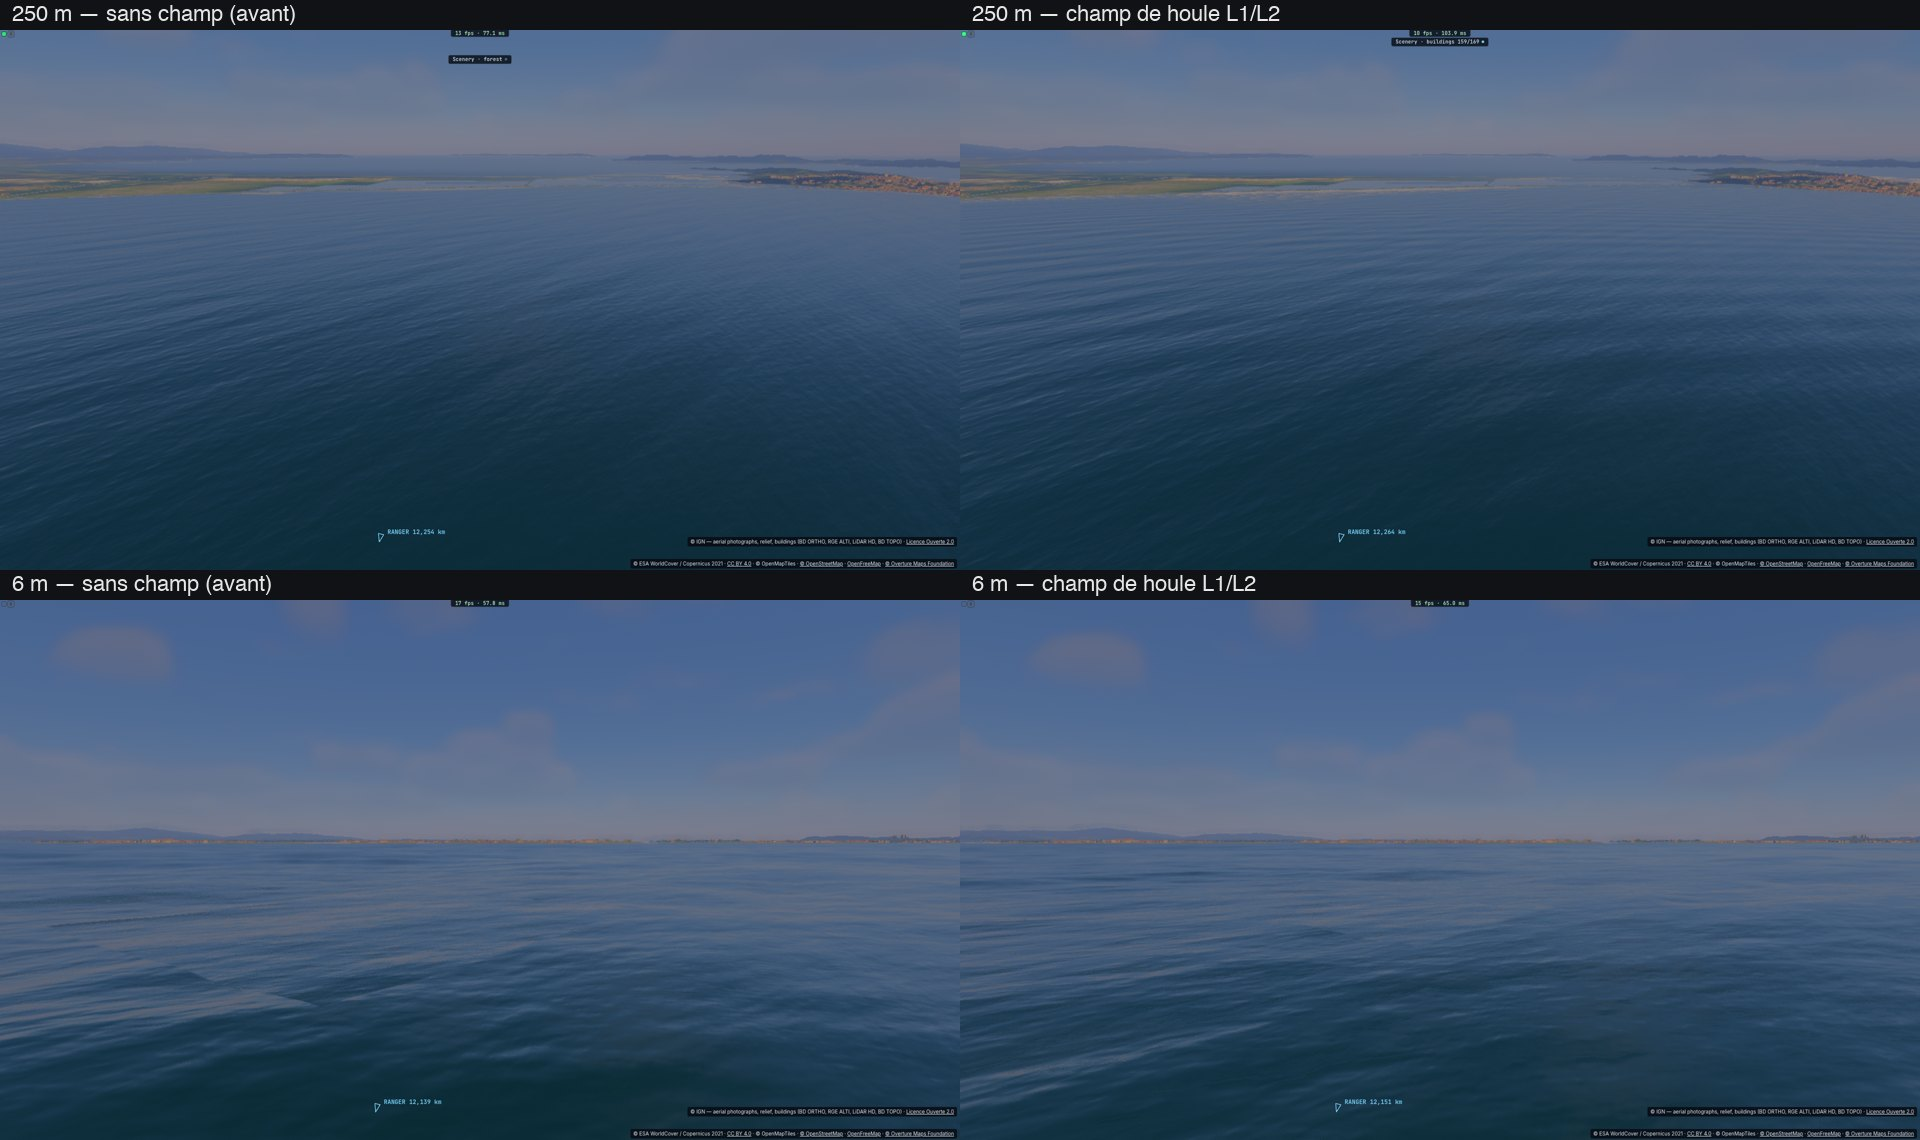
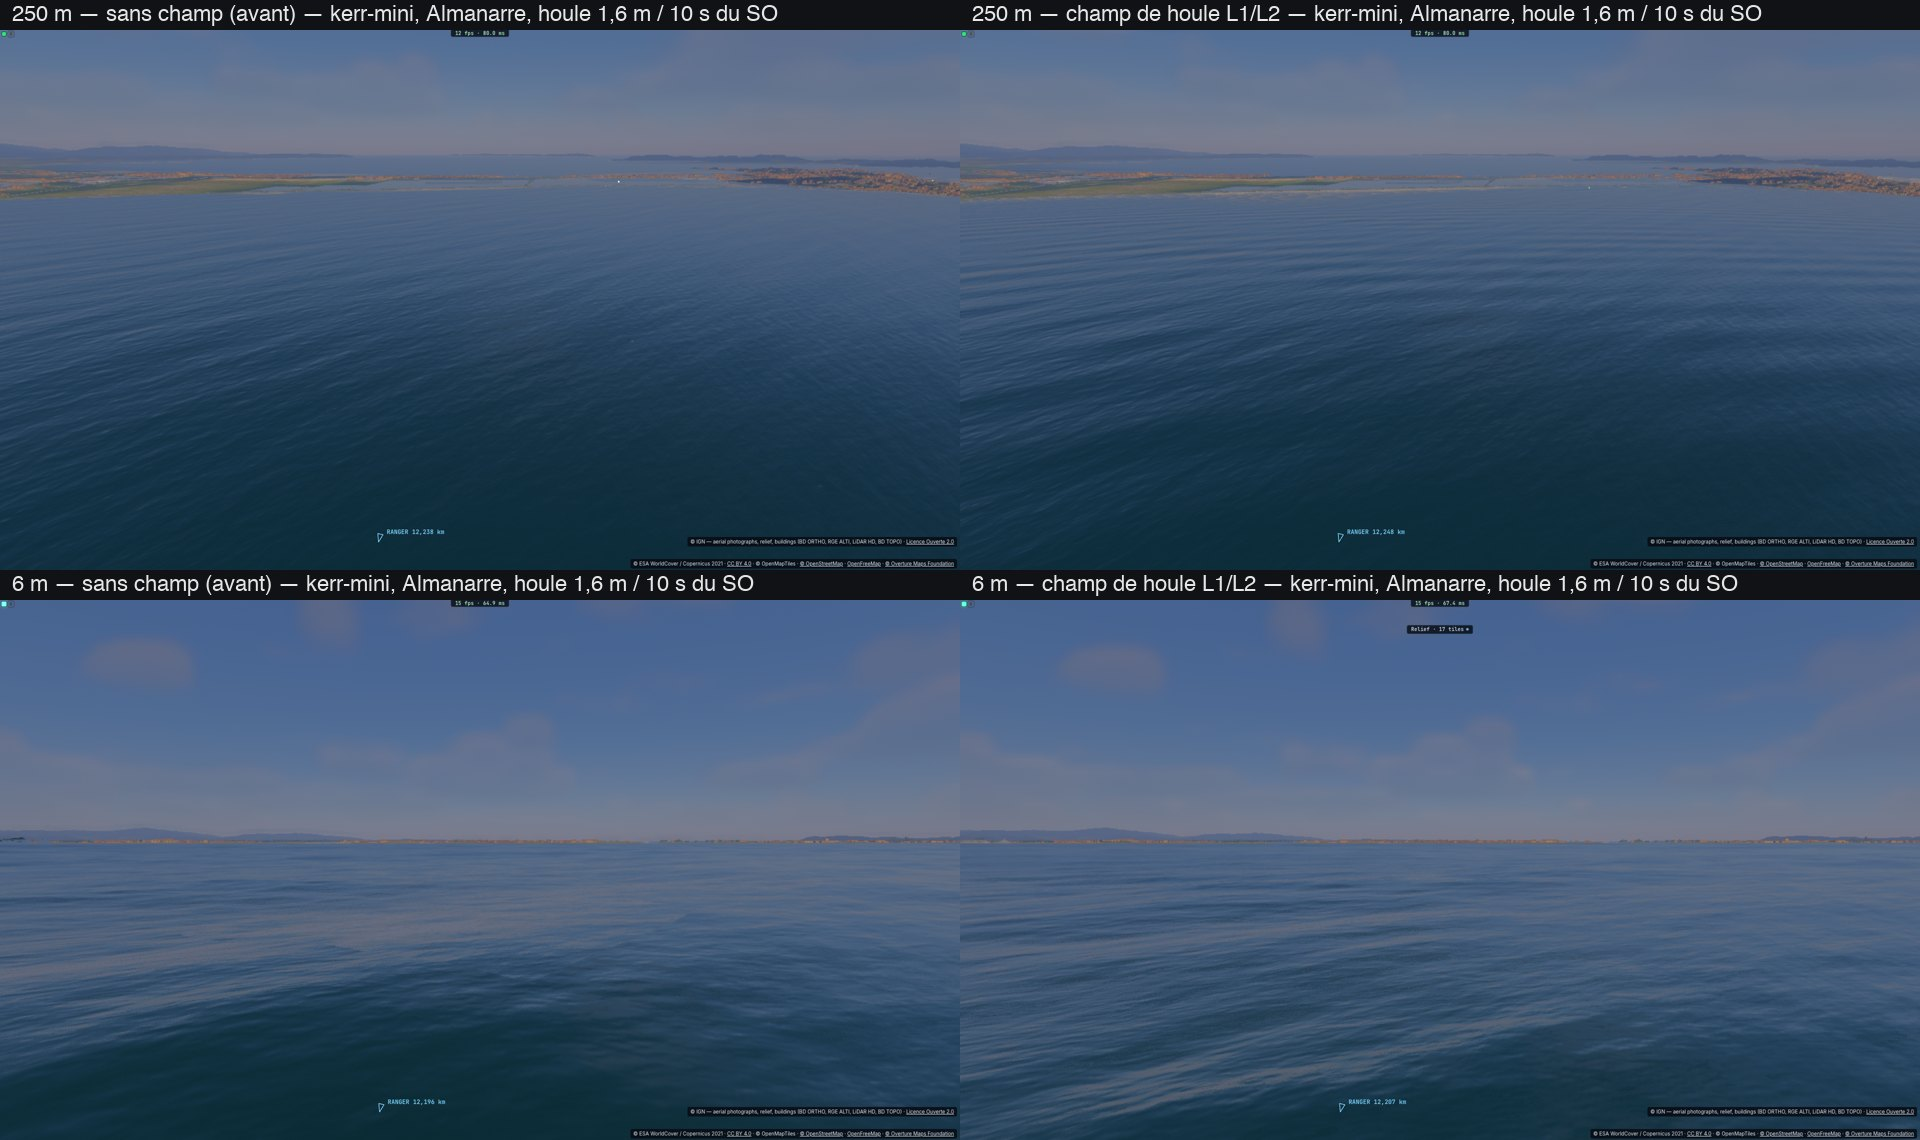
Houle côtière : les groupes de vagues par une enveloppe analytique (deux sinus, horloge lente dans l'en-tête) au lieu d'un bruit de gradient — +0,9 ms au lieu de +1,5–2 sur kerr-mini ; sonde : ablation fine, attente tolérante ; journal, planche

diff --git a/progress-to-destination.md b/progress-to-destination.md
@@ -2813,3 +2813,17 @@ plans [PLAN-MER-WEBGPU §5](docs/PLAN-MER-WEBGPU.md), [PLAN-VEGETATION-V2](docs/
 - **Non fait / limites** : la profondeur du champ est Dean seul (les tuiles ne sont pas lues dans la cuisson) ; le niveau le plus fin a
   des nœuds de 38 m ; le sable mouillé et la lame sur la terre (L3) vont avec J1 ; V2c (dessin, mips à couverture conservée), V2d
   (au-delà de 6,25 km), V2e restent ; aucune mesure J0 de ce lot ; M1 Max non mesuré.
+
+## 2026-11-11T03:45Z — Houle côtière : les groupes de vagues sans bruit de gradient (≈ +0,9 ms au lieu de +1,5–2)
+
+- **Mesuré** (kerr-mini, sonde `coast-swell` `SWELL_ABLATE=fine`, trois passages alternés par vue, GPU p50) : avec le bruit de
+  gradient pour les groupes, le champ coûtait **+2,0 ms** sur la vue de plage (sans groupes −0,9, sans déferlement −0,6, sans crêtes
+  −0,5 : à ±0,7 près). Les groupes sont maintenant une enveloppe analytique — sept vagues portées par la phase (en eau peu profonde la
+  vitesse des groupes est celle des crêtes), ondulées le long des crêtes sur ~5 longueurs d'onde, deux sinus et une horloge lente dans
+  l'en-tête du champ (`SWELL_HEADER_VEC4S` 10) — : plage **65,7 → 66,6 ms (+0,9)**, vue basse **60,2 → 61,1 (+0,9)**, vue à 250 m dans
+  le bruit (passage 3 : 79,3 → 78,1). Toujours au-dessus de la cible ≤ +0,5 ms de l'analyse ; les ablations restantes sont sous le bruit
+  d'un passage (±0,5) — il faudrait une vue figée par passe pour séparer lecture, crêtes et déferlement.
+- **Vérifié** : tests (`earth-swell`, `gpu-tables`, budget des noyaux), 83/83 shaders, sonde passée (0 erreur GPU). Captures refaites
+  avec les nouveaux groupes (`coast-swell`, aerial/low ; planche `docs/progress/mer/houle-l1-almanarre.jpg` remplacée) ; ce passage :
+  250 m +1,2 / +0,9 ms, 6 m +0,8 / +0,6 ms (deux passages). Les crêtes se voient là où la houle sent le fond, plus au premier plan
+  (profondeur connue des tuiles) ; la ligne de ressac de la plage, mince à 2,7 km.
